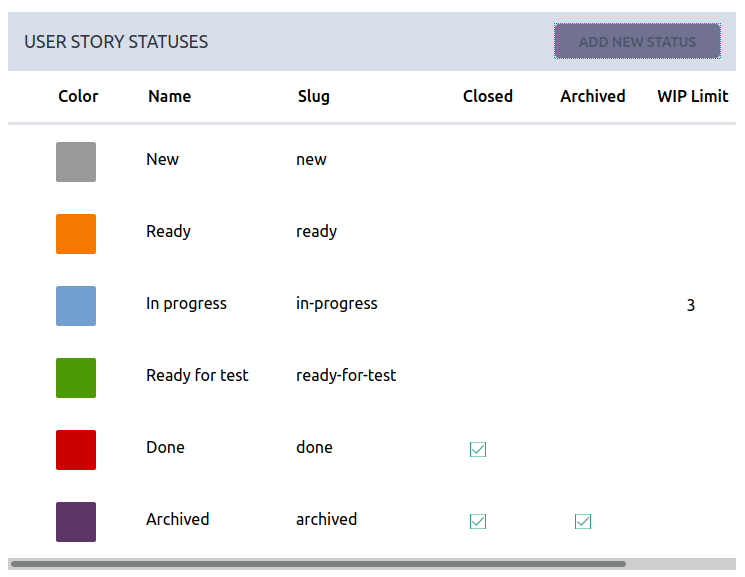
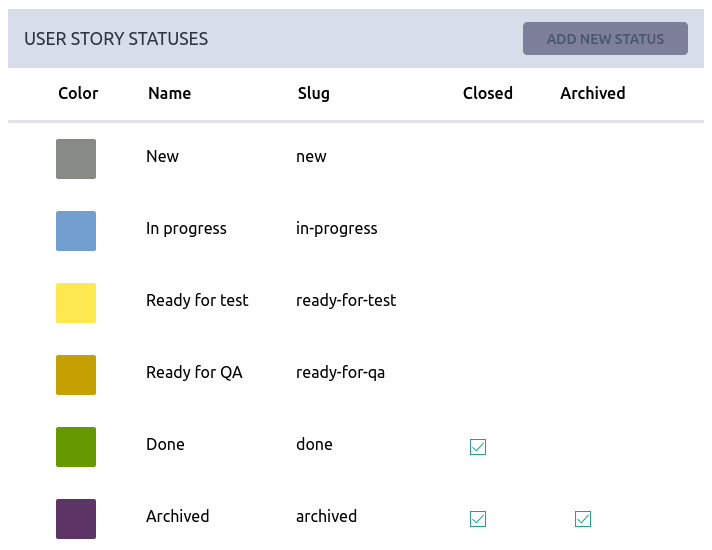
minor fixes and some changes pics to reflect more taiga6

diff --git a/taiga-resources/content/features/kanban.md b/taiga-resources/content/features/kanban.md
@@ -1,5 +1,5 @@
 ---
-title: "KANBAN"
+title: "The 5-min Kanban module overview"
 date: 2020-10-05T11:27:41+02:00
 draft: false
 
@@ -23,7 +23,7 @@ categories:
   - "kanban"
 ---
 
-Kanban is a lean method to manage and improve work across human systems. This approach aims to manage work by balancing demands with available capacity, and by improving the handling of system-level bottlenecks.
+Welcome to a lean method to manage and improve work across human systems, welcome to Kanban. This approach aims to manage work by balancing demands with available capacity, and by improving the handling of system-level bottlenecks.
 
 You can also say that Kanban is an organic flow of tasks that minimize "in progress" time thanks to a clear set of rules and a trustworthy team.
 
@@ -39,11 +39,15 @@ When you do this the project's toolbar will show the Kanban icon and you will be
 
 {{< figure src="/images/KANBAN_test04.jpg" caption="Project attributes setup" alt="Project attributes setup" width="100%" class="articlefigure" >}}
 
-Scroll down to the USER STORY STATUSES and change the default settings to accomodate your particular use case. If you want your Kanban work items to be considered as done when they reach a particular Kanban status, flag that status as Closed. Also, if you believe a particular Kanban status might end up containing dozens or hundreds of closed Kanban work items, you might want to add an additional status for those and flag it as both Closed and Archived. The Archived property makes a particular Status hide its content by default so you don't have to load no longer relevant content.
+Scroll down to the USER STORY STATUSES and change the default settings to accommodate your particular use case. If you want your Kanban work items to be considered as done when they reach a particular Kanban status, flag that status as **Closed**. Also, if you believe a particular Kanban status might end up containing dozens or hundreds of closed Kanban work items, you might want to add an additional status for those and flag it as both **Closed** and **Archived**. The **Archived** property makes a particular Status hide its content by default so you don't have to load no longer relevant content.
 
-Finally, it's a good practice to define the *Work in progress Limit* or *WIP Limit* for some (if not all) Kanban statuses. This means you are allowing Taiga to monitor whether you are exceeding a particular Kanban status capacity. For instance, Taiga will still allow you to add a fourth work item to 3-WIP Limit Kanban status but you'll get a visual warning on the Kanban board. A Kanban heavily rely on optimal WIP Limits and sticking to them so you don't end up with various work items graveyards that cause bottlenecks. It's challenging to get WIP Limits right straight away so you can always change them later.
+{{< figure src="/images/KANBAN_test03.jpg" caption="Project settings related to Kanban statuses: **Closed** & **Archived**" alt="Project settings related to Kanban statuses: **Closed** & **Archived**" width="100%" class="articlefigure" >}}
 
-{{< figure src="/images/KANBAN_test03.jpg" caption="Project settings related to Kanban statuses: Closed, Archived and WIP Limits" alt="Project settings related to Kanban statuses: Closed, Archived and WIP Limits" width="100%" class="articlefigure" >}}
+Finally, it's a good practice to define the *Work in progress Limit* or **WIP Limit** for some (if not all) Kanban statuses. This means you are allowing Taiga to monitor whether you are exceeding a particular Kanban status capacity. For instance, Taiga will still allow you to add a fourth work item to 3-WIP Limit Kanban status but you'll get a visual warning on the Kanban board. A Kanban heavily rely on optimal **WIP Limits** and sticking to them so you don't end up with various work items graveyards that cause bottlenecks. It's challenging to get **WIP Limits** right straight away so you can always change them later.
+
+{{< figure src="/images/KANBAN_test12.jpg" caption="Project settings related to **WIP Limits**" alt="Project settings related to **WIP Limits**" width="100%" class="articlefigure" >}}
+
+You can adjust Kanban **WIP Limits** under SETTINGS > ATTRIBUTES > KANBAN POWER UPS.
 
 This is the basic setup. You can now go to the Kanban module and start creating work items and moving them around as they progress in their lifecycle.
 
@@ -51,11 +55,11 @@ This is the basic setup. You can now go to the Kanban module and start creating 
 
 Some teams require advanced features for their Kanban boards. One of the most sought after is the Kanban swimlane. It consists on an independant section that can contain a separate set of work items. Taiga allows you to create as many Kanban swimlanes as you need, effectively distributing your work across different major categorizations. Some example of swimlanes usage are sub-teams, project modules, different priorities, etc.
 
-You can manage Kanban swimlanes under SETTINGS > ATTRIBUTES > KANBAN SWIMLANES.
+You can manage Kanban swimlanes under SETTINGS > ATTRIBUTES > KANBAN POWER UPS.
 
 {{< figure src="/images/KANBAN_test05.jpg" caption="Kanban swimlanes configuration" alt="Kanban swimlanes configuration" width="100%" class="articlefigure" >}}
 
-By default, a Taiga project comes with no Kanban swimlanes. Once you start creating swimlanes, the top one on the list will act as the default Swimlane for some Taiga project operations.
+By default, a Taiga project comes with no Kanban swimlanes. Once you start creating swimlanes, the top one on the list will act as the default Swimlane for some Taiga project operations. You will also have the option to adjust separate **WIP Limits** for each one of the swimlanes.
 
 {{< figure src="/images/KANBAN_test06.jpg" caption="Kanban swimlanes view with some sample tasks" alt="Kanban swimlanes view with some sample tasks" width="100%" class="articlefigure" >}}
 
@@ -78,7 +82,7 @@ Kanban is very often described as great visual management tool. It radiates info
 
 However, Taiga users are allowed to pick their preferred zoom level for the Kanban board. You can pick from four options: compact, default, detailed and expanded.
 
-A picture is worth a thousand words, just see how different te same Kanban board can look depending on your zoom level preference.
+A picture is worth a thousand words, just see how different the same Kanban board can look depending on your zoom level preference.
 
 {{< figure src="/images/KANBAN_test08.jpg" caption="Kanban with compact zoom vs expanded zoom" alt="Kanban with compact zoom vs expanded zoom" width="100%" class="articlefigure" >}}
 
@@ -91,7 +95,7 @@ You will probably find yourself sticking to a preferred zoom level most of the t
 
 ### Kanban relationship with Scrum module
 
-Taiga is about choice and lfexibility while still adhering to basic agile and lean principles. We want you to start using either Scrum or Kanban for your project (or neither and stick with Issues) and later change your mind.
+Taiga is about choice and flexibility while still adhering to basic agile and lean principles. We want you to start using either Scrum or Kanban for your project (or neither and stick with Issues) and later change your mind.
 
 In order for Taiga to manage this transition, we decided that a Kanban work item or Kanban card would also be internally considered a Scrum User Story. That way, you can keep all your work regardless of which Agile module you are using.
 
